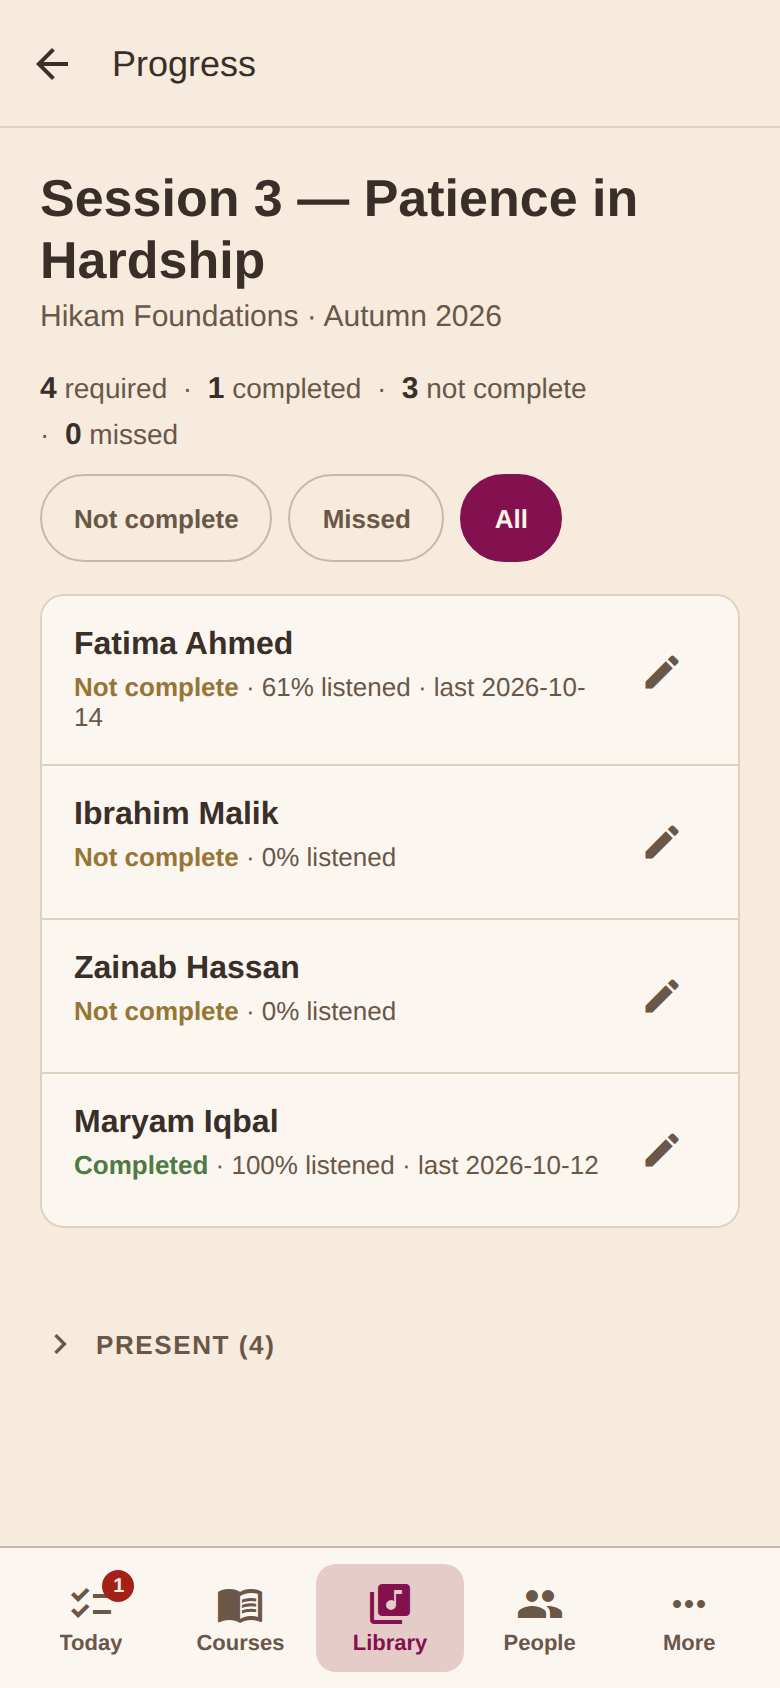
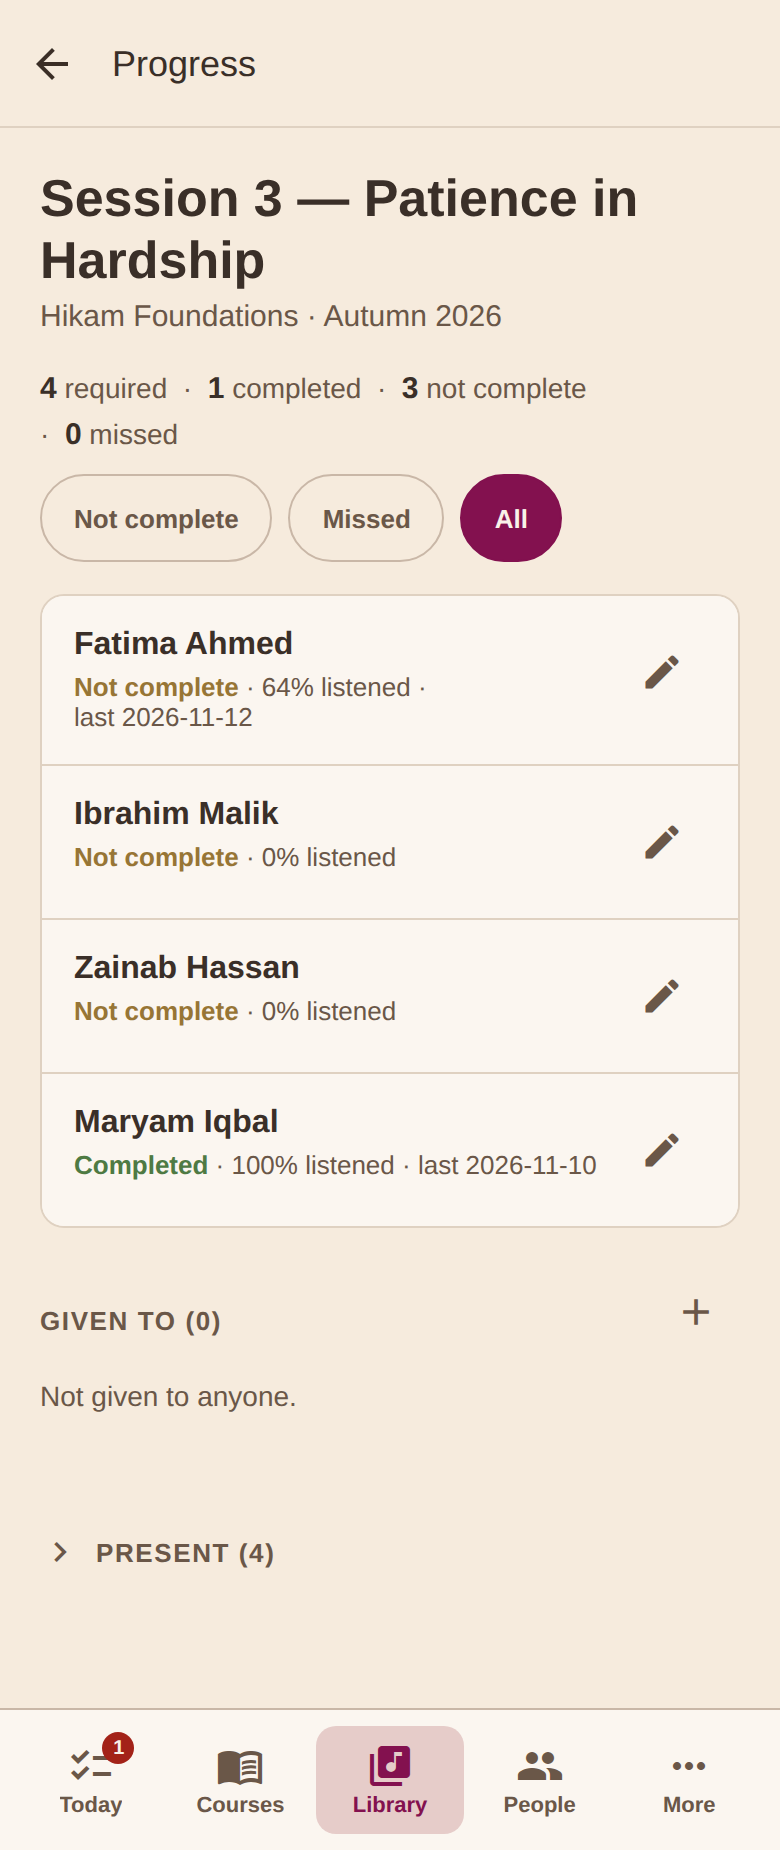
docs(manual): Today, the register and Progress as they now read
Today's closing-soon rows say the listen-by date, the register's note
says who must play the recording, and Progress has Given to. The
last-played date on a Progress row now stays on one line, as the new
given dates do.

diff --git a/app/src/screens/RecordingLedgerScreen.tsx b/app/src/screens/RecordingLedgerScreen.tsx
@@ -282,7 +282,7 @@ function ListenerRow({ row: r, givenUntil }: { row: LedgerRow; givenUntil: strin
           {listened ? (
             <Text style={styles.sub}>
               {listenedText(r.listenedPct)}
-              {r.lastListened ? ` · last ${fmtDate(r.lastListened)}` : ''}
+              {r.lastListened ? ` · last\u00A0${unbreakableDate(fmtDate(r.lastListened))}` : ''}
               {givenUntil ? ` · given until\u00A0${unbreakableDate(givenUntil)}` : ''}
             </Text>
           ) : null}
@@ -340,7 +340,7 @@ function LedgerRowCard({
       {/* THE STATUS LEADS, in its colour: it is what the row is read for. */}
       <Text style={[styles.status, statusStyle(outcome)]}>{statusLabel(r, outcome, closedBy)}</Text>
       {` · ${listenedText(r.listenedPct)}`}
-      {r.lastListened ? ` · last ${fmtDate(r.lastListened)}` : ''}
+      {r.lastListened ? ` · last\u00A0${unbreakableDate(fmtDate(r.lastListened))}` : ''}
       {r.pending ? ' · pending sync' : ''}
       {givenUntil ? ` · given until\u00A0${unbreakableDate(givenUntil)}` : ''}
     </Text>
